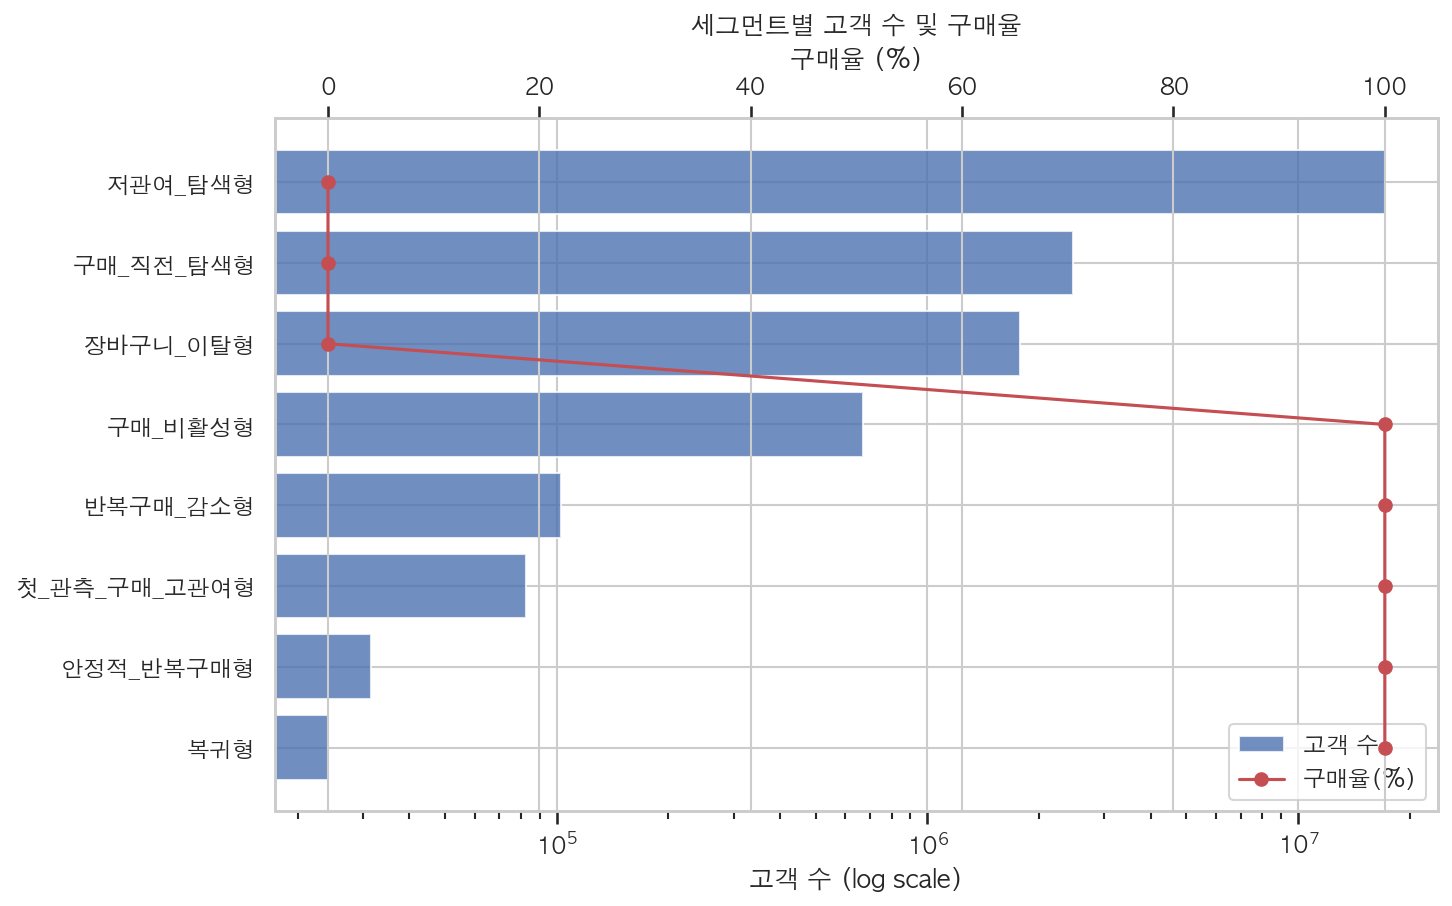
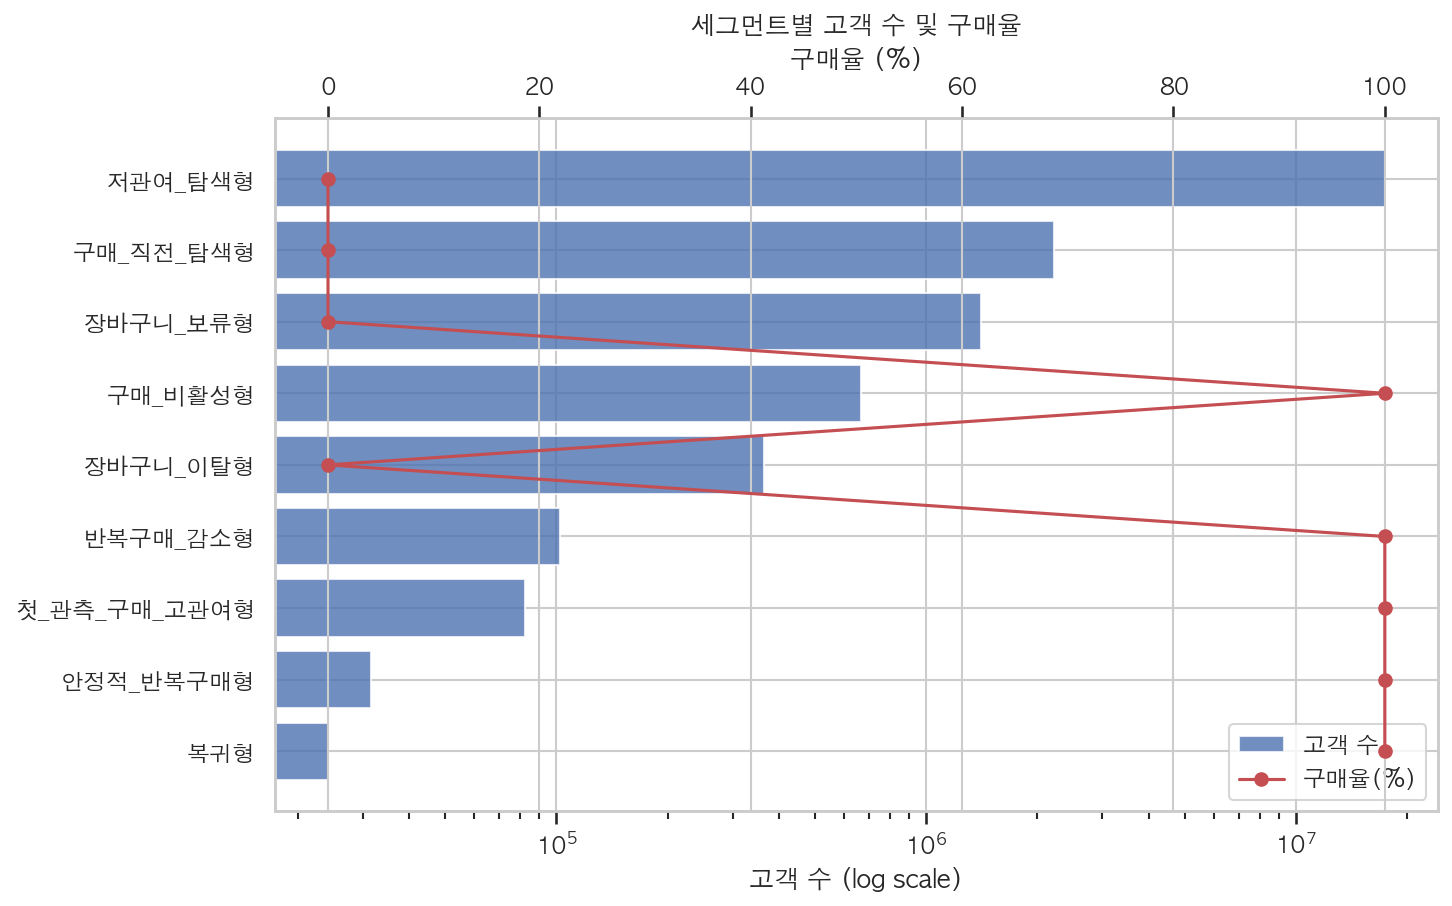
docs(phase8): regenerate segment distribution chart, fix stale Phase 9 status text
reports/figures/09_segment_distribution.png이 2026-08-06 최초 생성 이후
한 번도 재생성되지 않아 구 8세그먼트 구조(장바구니_보류형 분리 반영 안 됨)를
계속 보여주고 있었다 — Phase 8/9/10 최신성 감사 중 발견. 9개 세그먼트로
재생성했다. README.md는 이미 "9개"로 텍스트가 맞아 있고 이미지 경로도
동일해 별도 텍스트 수정 없이 임베드가 자동 반영된다.

app/Home.py의 AI CRM Report 페이지 소개 문구도 "(LLM 생성 파트는 Phase
9에서 연결 예정)"이라는 Phase 9 완료 이전 상태로 남아있던 것을 실제
구현 상태(Data Facts/Model Predictions는 SQL 계산값 passthrough,
Recommended Actions/Testable Hypotheses는 LLM 생성, mock 백엔드 안내)로
정정했다.

diff --git a/app/Home.py b/app/Home.py
@@ -40,7 +40,8 @@ st.markdown(
 - **Lifecycle**: 고객 라이프사이클 8개 상태 분포
 - **Segment Explorer**: CRM 세그먼트별 특성과 추천 액션
 - **Targeting Simulator**: 접촉 비율별 모델 vs 규칙 기반 타기팅 비교
-- **AI CRM Report**: SQL 집계 기반 리포트 (LLM 생성 파트는 Phase 9에서 연결 예정)
+- **AI CRM Report**: SQL 집계 기반 Data Facts/Model Predictions + LLM이 생성한
+  Recommended Actions/Testable Hypotheses (API 키 없으면 mock 백엔드로 동작)
 
 왼쪽 사이드바에서 페이지를 선택하세요.
 """
